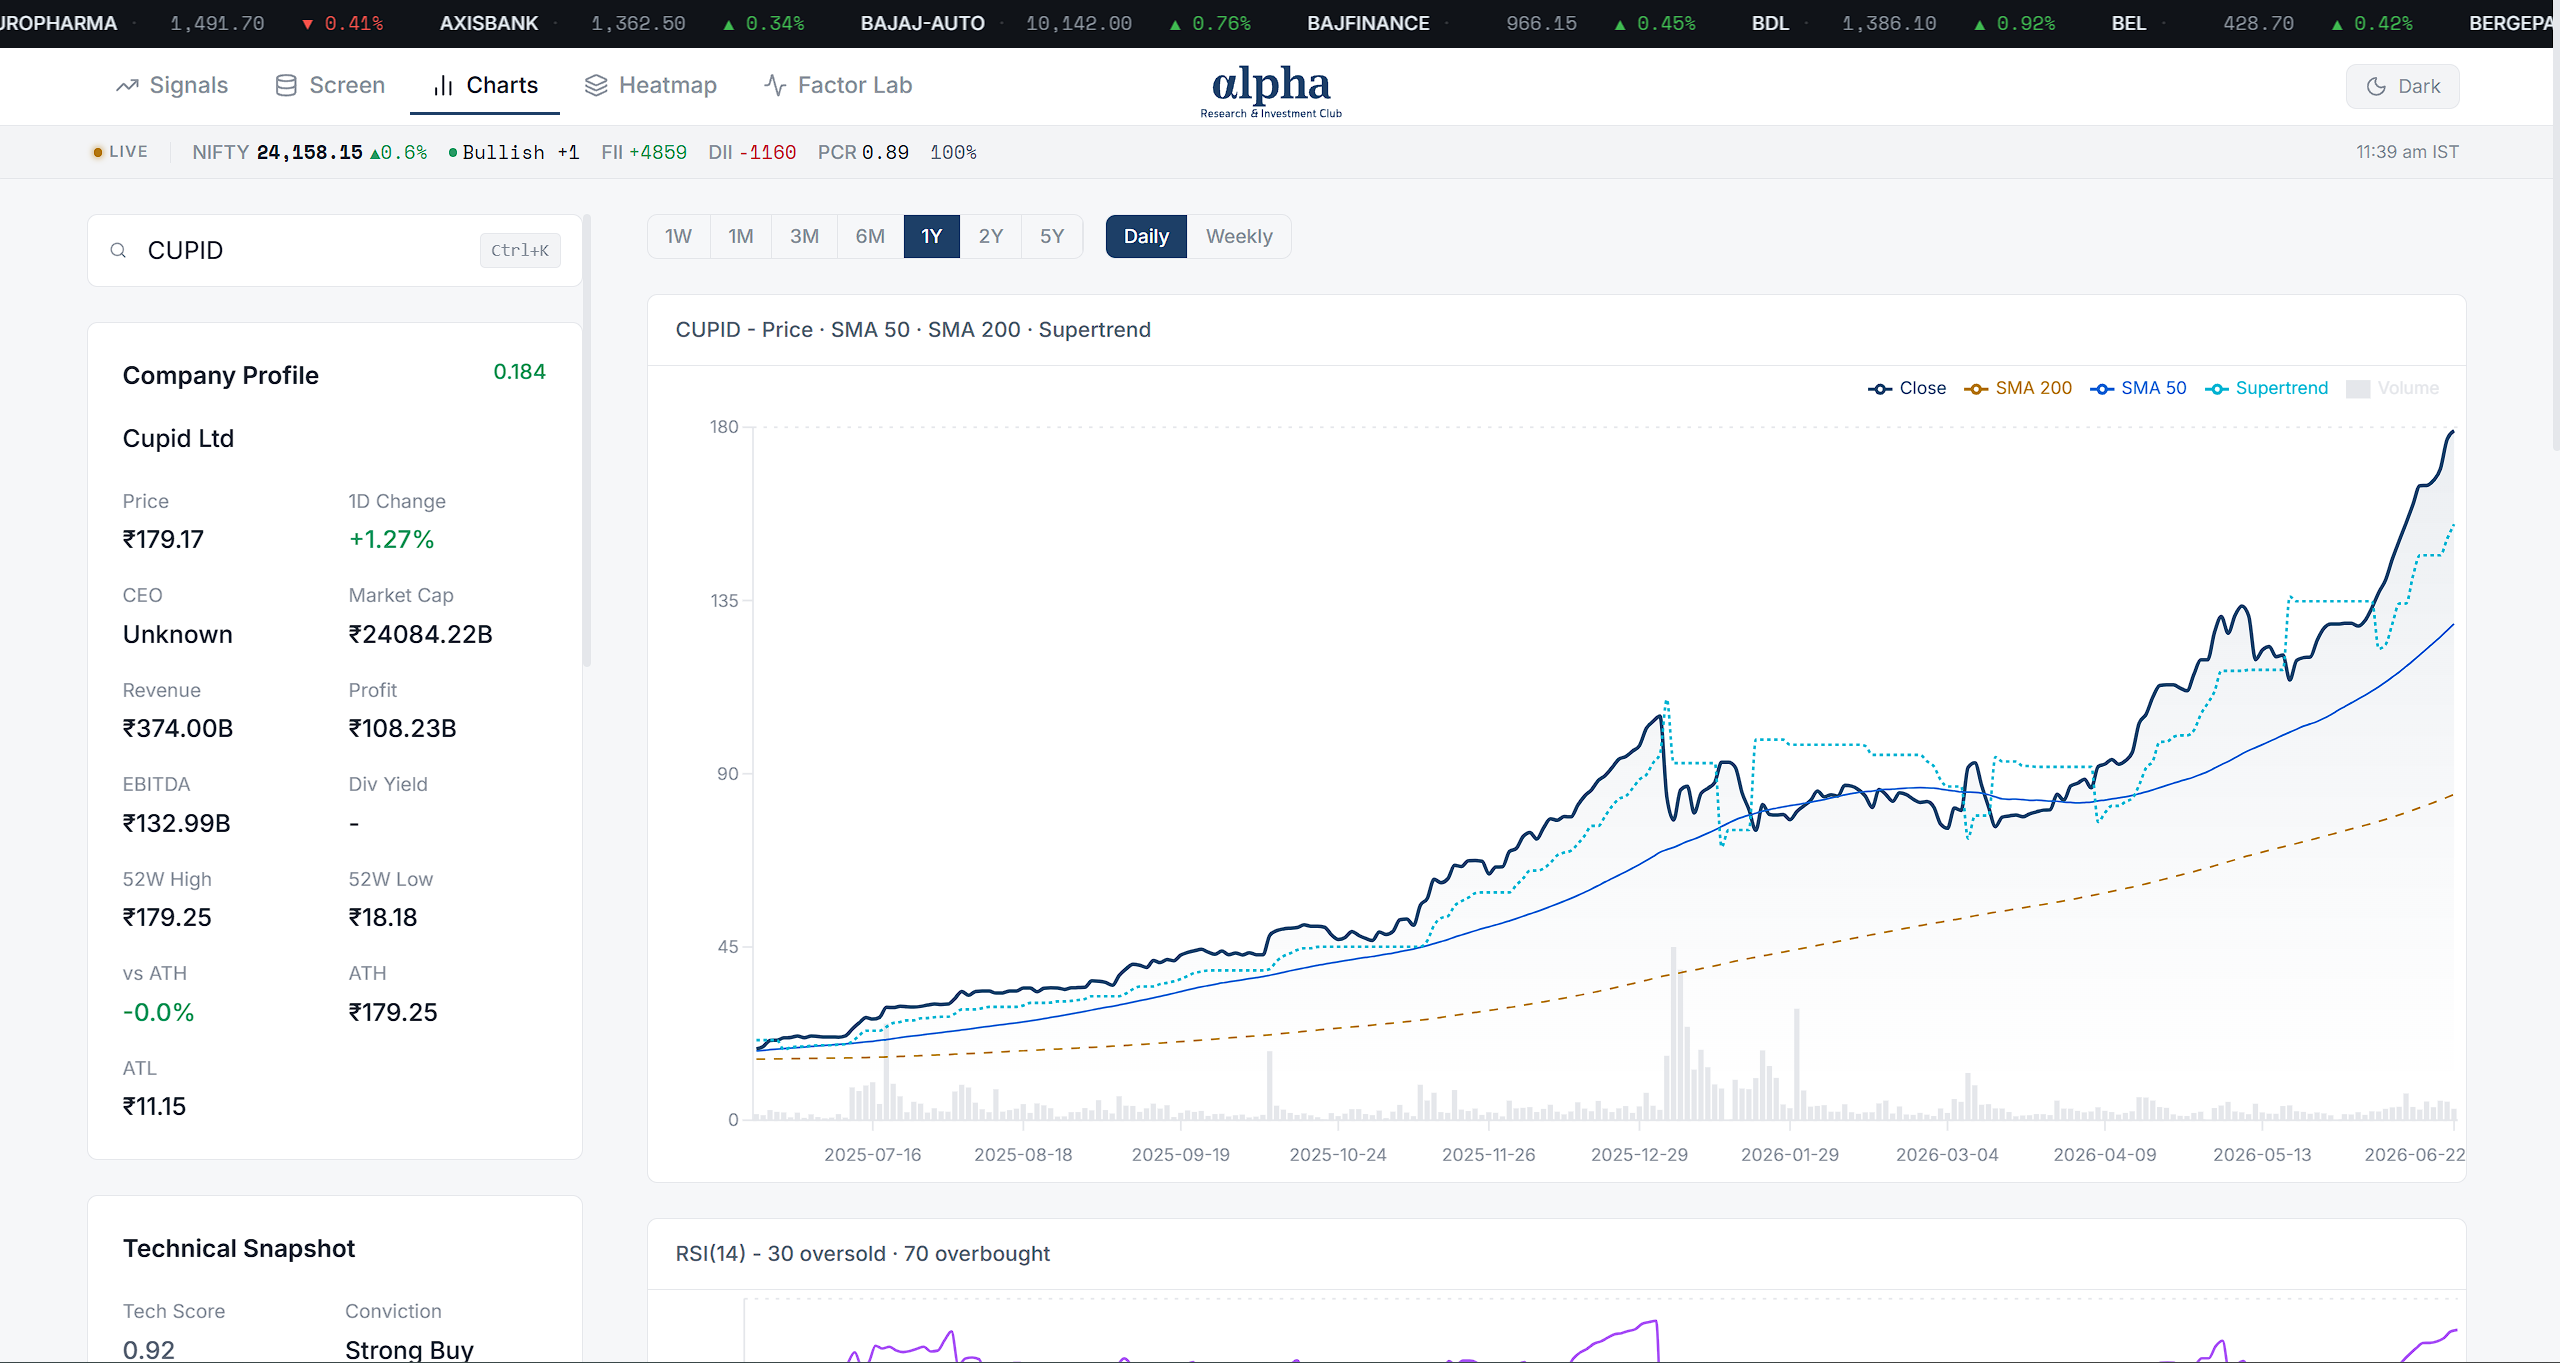
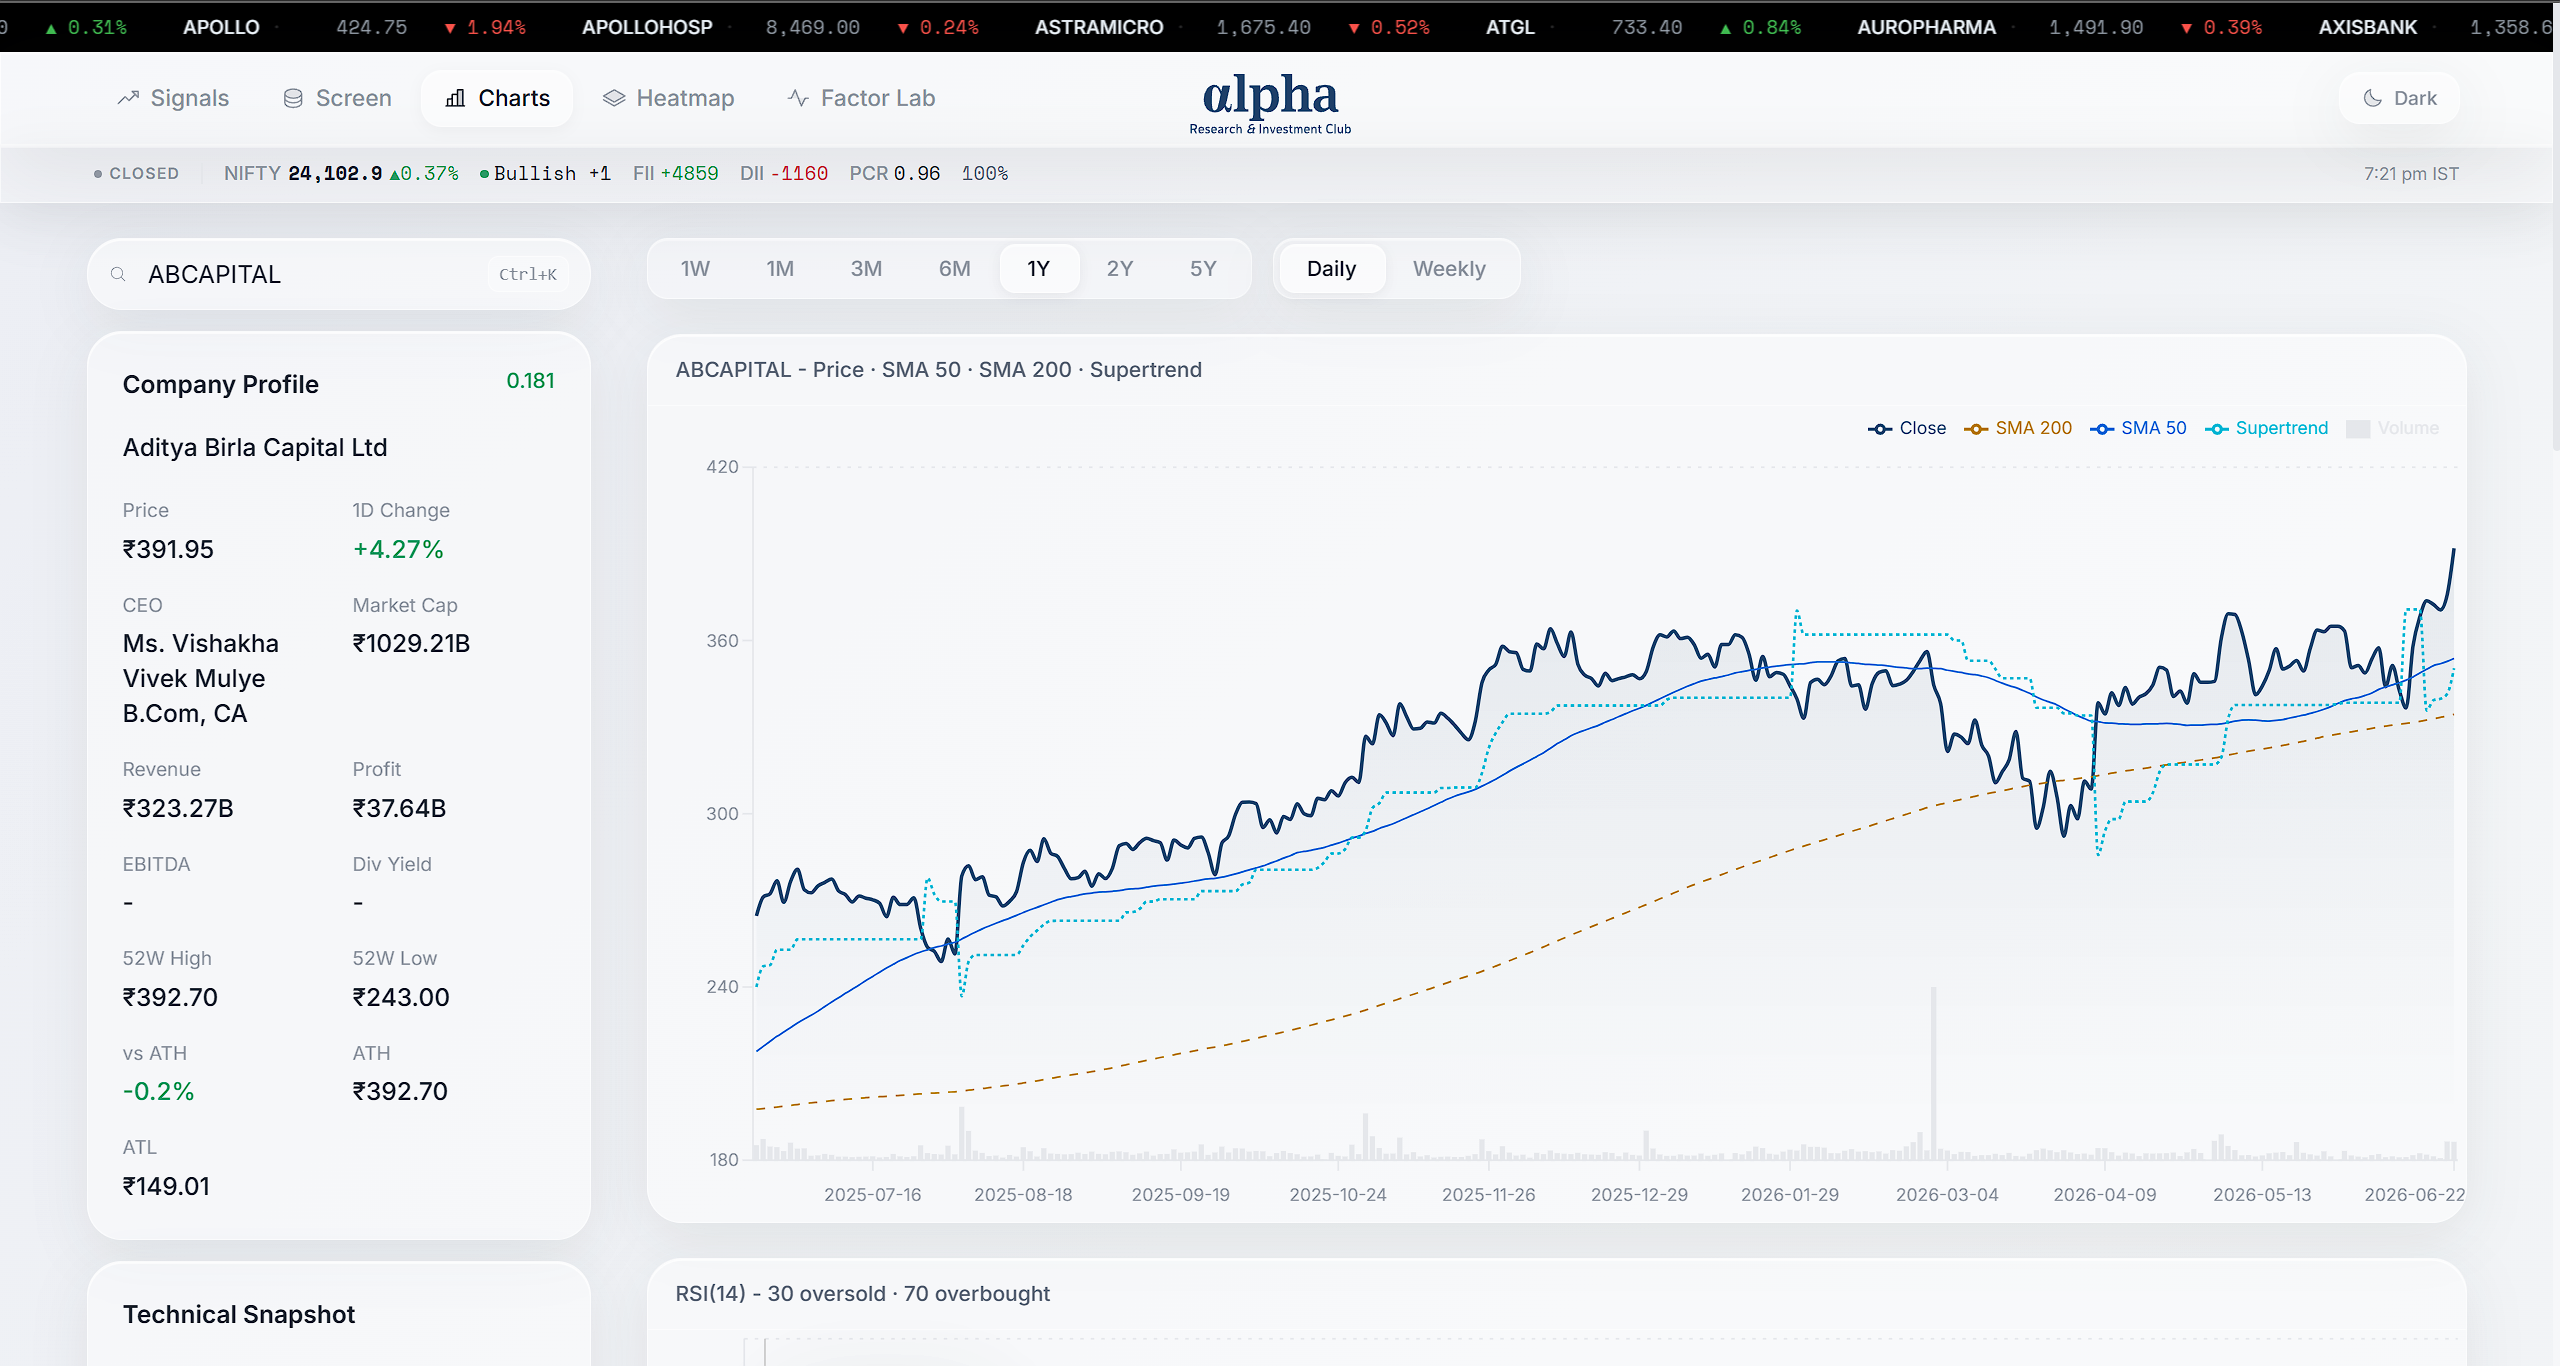
Fix: Updated readme with actual latest preview

diff --git a/README.md b/README.md
@@ -14,7 +14,7 @@
 
   <br /><br />
 
-  **[Live Dashboard](https://quant-alpha-sage.vercel.app)**&nbsp;&nbsp;&nbsp;**[Live Data API](https://quant-alpha-sage.vercel.app/api/live_data)**&nbsp;&nbsp;&nbsp;**[AI Summary (llms.txt)](https://quant-alpha-sage.vercel.app/llms.txt)**
+  **[Live Dashboard](https://quant-alpha-sage.vercel.app)**&nbsp;&nbsp;&nbsp;**[Live Data API](https://quant-alpha-sage.vercel.app/api/live_data)**
 
 </div>
 
